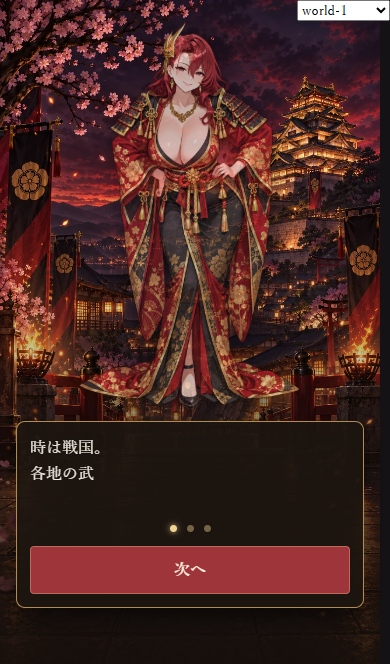
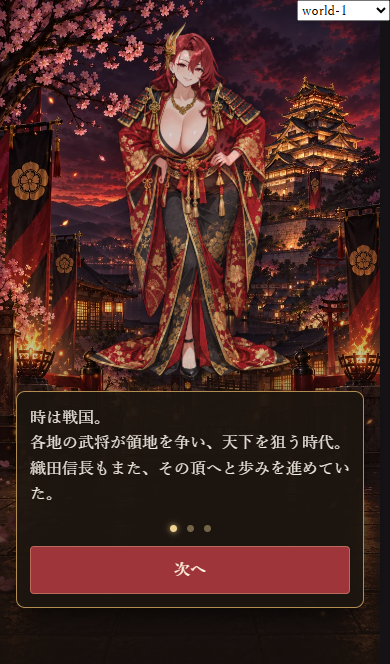
docs: record device debug preview delivery and limited acceptance

Changed region(s): [[0.0308, 0.0301, 0.8923, 0.753]]

diff --git a/docs/verification/device-debug/GAME04_DEVICE_DEBUG.md b/docs/verification/device-debug/GAME04_DEVICE_DEBUG.md
@@ -7,7 +7,7 @@
 - 共通Preview：https://game04-git-work-game04-common-preview-20260925-kiyoshi-kitamura.vercel.app/
 - 作業ブランチ：work/game04-common-preview-20260925。PR最新と発生版の一致をGitHubで確認。
 - 修正前配信の独立照合：2026-09-26、公開 /api/qa/deployment が上記SHA・preview・同ブランチを返すことを確認。deploymentId dpl_3CnYeKBqsnCcnaJHKzvMw8GevUWM。
-- 現在の確認SHA：f462426e1d3ed955ed07979549927f066e6913ac。修正配信の確認後に更新する。
+- 現在の確認SHA：d9be13030beca6cb15a8e3f8dd328f5de303266f（公開識別APIで独立照合済み、Preview）。
 - 端末はiPhone系との報告。機種・OS・ブラウザー版は未確認。原画像の23:47・4Gは引継ぎ記載であり、本作業で画像の独立閲覧は未実施。
 - 次の番号：DBG-022。削除・再利用・振り直し禁止。
 - 未解決21件（P0 1／P1 12／P2 8）、解決0。実機受入・G5未完了。
@@ -16,7 +16,7 @@
 
 ## 状態・DBG別結果
 
-全項目の現在状態：修正中（限定検証実施、Git保存・配信は未完了）。実機確認まで解決扱いにしない。
+全21項目の現在状態：**配信済み・実機確認待ち**。修正SHA／配信SHA：d9be13030beca6cb15a8e3f8dd328f5de303266f。解決0件。P0クラッシュの原因確定・実機受入は未完了。
 
 | ID | 優先度 | 件名 | バッチ |
 |---|---|---|---|
@@ -58,7 +58,7 @@
 
 - 発生版：f462426e1d3ed955ed07979549927f066e6913ac
 - 対応：タイトル開始、認証、初期設定、データ取得、チュートリアル素材準備を同一の中央ロゴ・下テキスト・枠なし表示へ統一。旧開始アニメを除去。
-- 検証・残件：ローカルで部品表示確認。実通信を通じた連続表示は実機確認待ち。
+- 検証・残件：ローカルと配信Previewの新規開始→イントロを確認。実機の連続表示は確認待ち。
 
 ### DBG-004 イントロ～チュートリアルの文字送り
 
@@ -130,7 +130,7 @@
 
 - 発生版：f462426e1d3ed955ed07979549927f066e6913ac
 - 対応：共通Modal footerを中央配置。文言・遷移先保持。
-- 検証・残件：実機の出陣へCTA確認待ち。
+- 検証・残件：配信Previewの出陣へCTAを中央表示で確認。実機確認待ち。
 
 ### DBG-016 エリア一覧で攻略ヒント先出し
 
@@ -212,7 +212,7 @@
 - scripts/game04-battle-presentation/verify-recorded-projection.mjs：HP・複数ヒット・回復・カットイン・Wave境界・snapshot不変が成功。
 - 既存verify_battle_presentation_contract.mjs：旧canonical mastersの拡張子なしimportでERR_MODULE_NOT_FOUND。起動失敗であり合格扱いにしない。今回修正範囲の上記検証で補完。
 - 小画面戦闘高：390×664→629px、360×600→508px、320×568→470px（5人fixture）。
-- 未確認：iOS WebKit実機、通信環境4G、実セッションのチュートリアルから1-1の全経路、クラッシュ原因、状態保存・二重消費。
+- 未確認：iOS WebKit実機、通信環境4G、クラッシュ原因、状態保存・二重消費。
 - 全画面監査・旧性能の大量再計測・保存改善候補の追加適用は行っていない。
 
 ## 配信履歴
@@ -228,3 +228,15 @@
 ## 解決済み
 
 なし。配信後は「配信済み・実機確認待ち」。P0は実機で戦闘終了まで再確認してから解決判定する。
+
+## 配信完了記録（2026-09-26 JST）
+
+- 修正保存：d9be13030beca6cb15a8e3f8dd328f5de303266f。PR #37へpush済み。
+- Previewビルド：READY、Next.js 16.2.10、リモートbuild約30秒。
+- 検証済み固定配信：https://game04-9cqujsbkd-kiyoshi-kitamura.vercel.app （dpl_7bsiSXhYHKJqcFjx9YKJoC6CnVxs）。
+- 共通URLと固定配信の /api/qa/deployment が修正SHA・work/game04-common-preview-20260925・previewを返すことを確認。
+- Git自動配信も同SHAで成功（dpl_9u92SgMLHdz7LsJtptC9aQezt9W1）。共通URLは検証済み固定配信へ集約する。後続の台帳・証拠のみのGitコミットは修正コードSHAと区別する。
+- 追加確認：配信Previewの新規確認用セッションで、開始→17場面のチュートリアル→模擬戦勝利→名前→初回案内→三河→1-1→勝利→ステージクリアまで操作。Chromium 390×664。意図しないタイトル復帰・ページ再読み込みは観測なし。
+- 1-1記録後半（frame 35～53）にDOM観測を接続。読み込みダイアログ再表示0、勝利到達。前半の連続計測はなく、全時間帯の暗転ゼロを計測したとは主張しない。evidence/preview-observation.json参照。
+- 確認用匿名プレイヤーの通常チュートリアル・クエスト進行のみ。API実装・DB定義・マスタの変更なし。保存再読込・二重消費の専用検証は未実施。
+- 実機はチュートリアル後1-1を終了まで最優先で再確認。DBG-001のOS再読み込み原因は未確定であり、今回の対策だけで解決としない。
